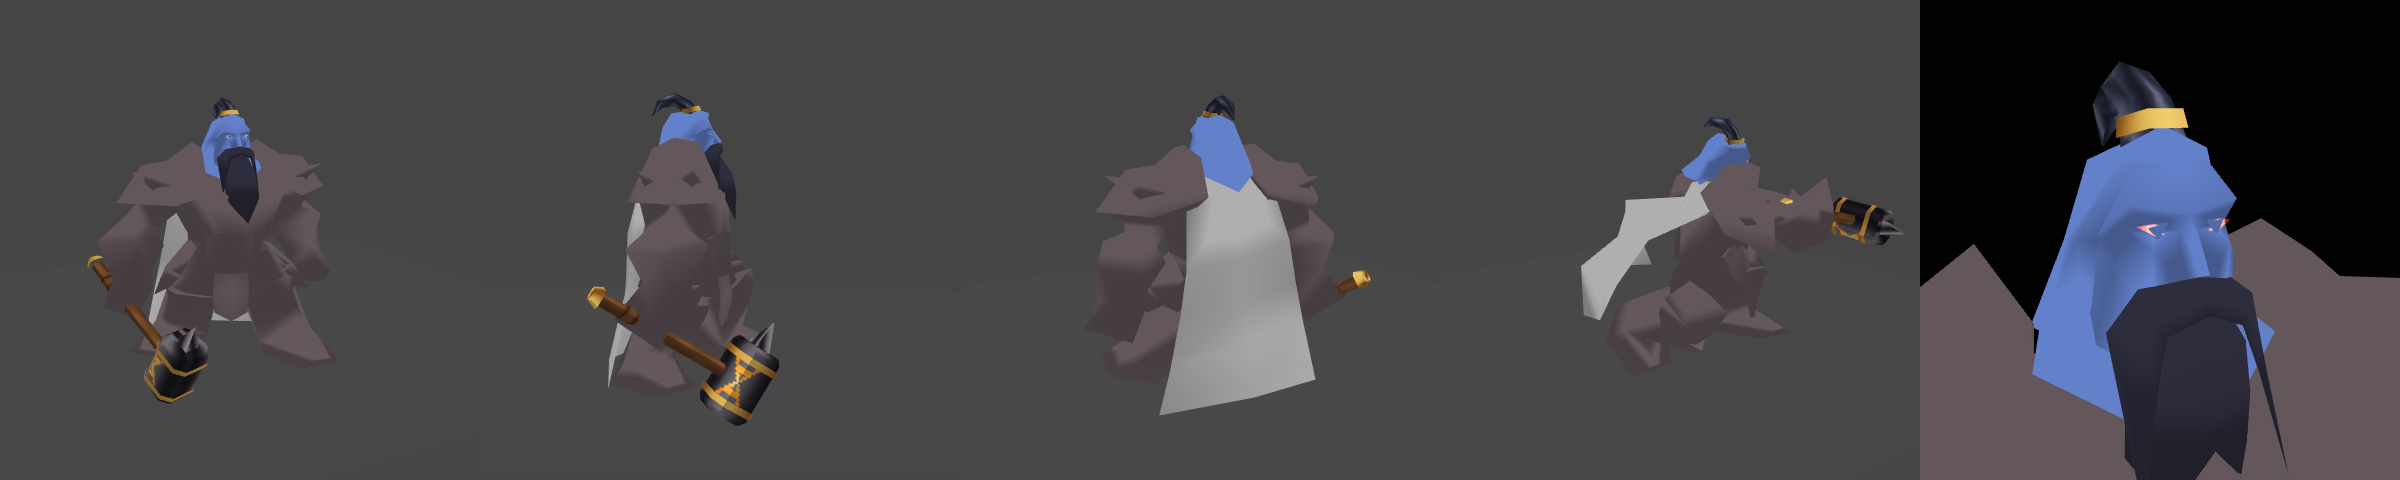
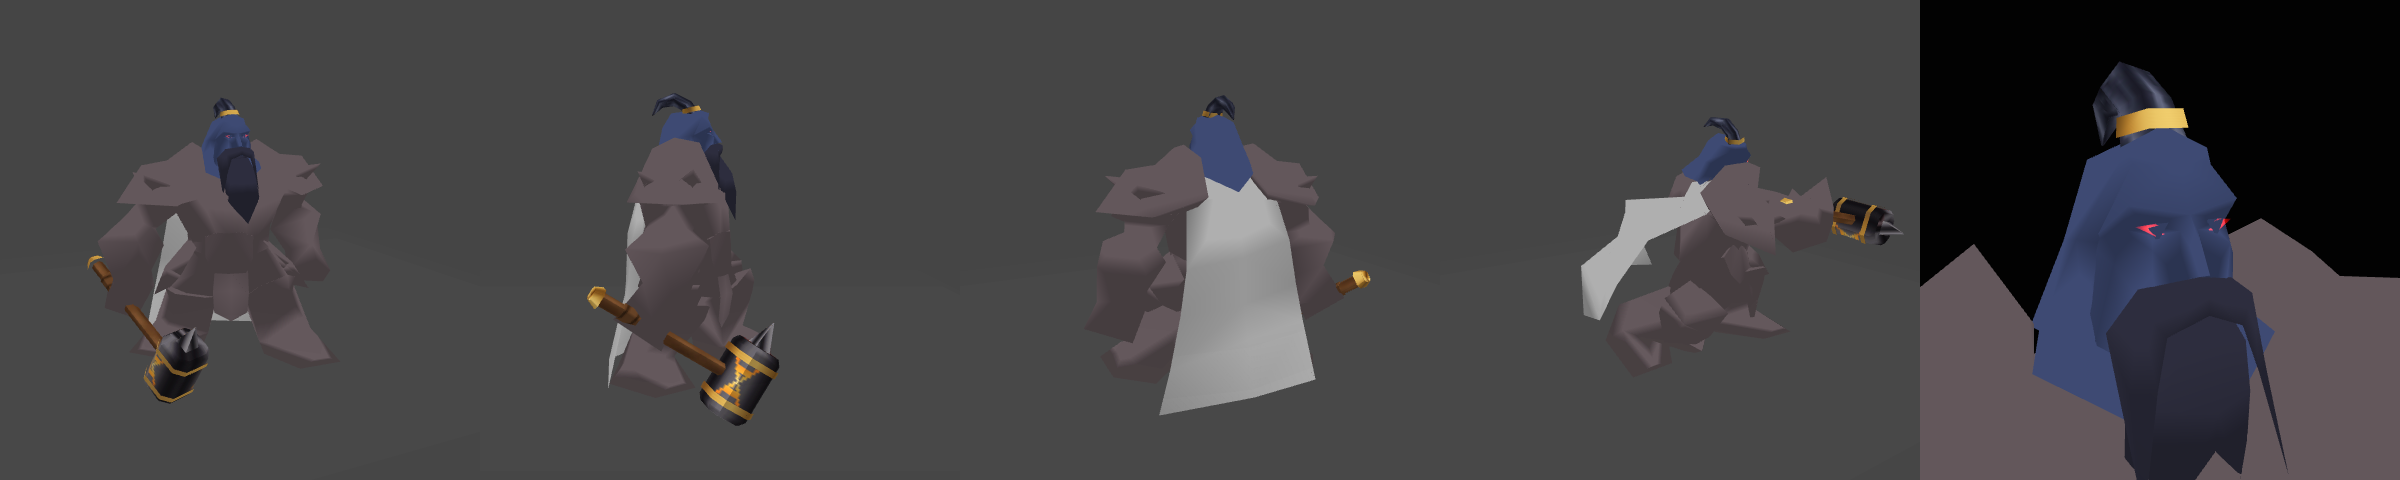
Give the Dark Iron Thane red eyes and darker skin
- The eye glow uses a new red ramp instead of the fire ramp.
- The skin tint goes from slate blue to a darker slate.
- Update the preview image and README.

Claude-Session: https://claude.ai/code/session_013JBmL6ZZciRzjVRVRvt9T7

diff --git a/mapgen/dwarf.py b/mapgen/dwarf.py
@@ -6,9 +6,9 @@ bearded head, skeleton and animations, all textured with the game's own
 skins. On top of that:
 - dwarf proportions: the legs and cape shortened, the body widened
 - the crown taken off and the beard grown down over the chest
-- everything tinted through geoset colours: dark iron armour, slate blue
+- everything tinted through geoset colours: dark iron armour, dark slate
   skin, a near black beard and moustache
-- glowing eyes, a topknot, and a warhammer in place of the sword, painted on
+- glowing red eyes, a topknot, and a warhammer in place of the sword, painted on
   a small texture of their own
 The King's portrait model gets the same head.
 """
@@ -38,7 +38,7 @@ P_ARMOUR, P_HEAD = 0, 1
 
 # colours multiplied over the game's skins (red, green, blue)
 ARMOUR_TINT = (0.48, 0.42, 0.44)       # dark iron
-SKIN_TINT = (0.48, 0.62, 0.98)         # slate blue
+SKIN_TINT = (0.30, 0.36, 0.56)         # dark slate
 HAIR_TINT = (0.22, 0.22, 0.30)         # near black
 CAPE_TINT = (0.85, 0.85, 0.85)
 
@@ -516,6 +516,7 @@ IRON = [(0.0, (196, 194, 202)), (0.18, (124, 120, 128)), (0.42, (40, 37, 42)), (
 GOLD = [(0.0, (255, 246, 196)), (0.2, (238, 196, 92)), (0.45, (164, 104, 30)), (0.6, (88, 50, 14)),
         (0.78, (196, 140, 50)), (0.9, (240, 206, 110)), (1.0, (150, 96, 30))]
 FIRE = [(0.0, (0, 0, 0)), (0.3, (120, 20, 4)), (0.6, (240, 90, 16)), (0.85, (255, 190, 60)), (1.0, (255, 250, 200))]
+RED_GLOW = [(0.0, (0, 0, 0)), (0.3, (110, 0, 0)), (0.6, (230, 16, 6)), (0.85, (255, 60, 30)), (1.0, (255, 160, 130))]
 WOOD = [(0.0, (40, 22, 12)), (0.45, (92, 56, 30)), (0.8, (140, 94, 54)), (1.0, (178, 130, 80))]
 LEATHER = [(0.0, (34, 20, 12)), (0.5, (96, 60, 34)), (1.0, (170, 124, 76))]
 HAIR = [(0.0, (8, 8, 14)), (0.4, (30, 31, 44)), (0.75, (74, 78, 100)), (1.0, (150, 156, 182))]
@@ -541,7 +542,7 @@ def paint(region, u, v):
         lock = abs(math.sin(math.pi * (u * 4 + 0.3 * math.sin(v * 6))))
         return ramp(HAIR, 0.3 + 0.35 * lock + 0.2 * (lock > 0.85) * math.sin(v * 9 + u * 20))
     if region == 'eye':
-        return ramp(FIRE, 1.0 - 1.7 * math.hypot(u - 0.5, (v - 0.5) * 0.8))
+        return ramp(RED_GLOW, 1.0 - 1.7 * math.hypot(u - 0.5, (v - 0.5) * 0.8))
     raise KeyError(region)
 
 

diff --git a/README.md b/README.md
@@ -70,8 +70,8 @@ are usually made:
   move down rigidly, so nothing bends.
 - The crown is taken off. The beard and moustache, found through the facial bones of the King's
   portrait model, grow down over the chest.
-- Geoset colours tint the armour dark iron, the skin slate blue and the beard near black.
-- Glowing eyes, a topknot and a warhammer in place of the sword, painted on a small texture of
+- Geoset colours tint the armour dark iron, the skin dark slate and the beard near black.
+- Glowing red eyes, a topknot and a warhammer in place of the sword, painted on a small texture of
   their own.
 - His portrait model gets the same head, with the King's talking animations.
 
